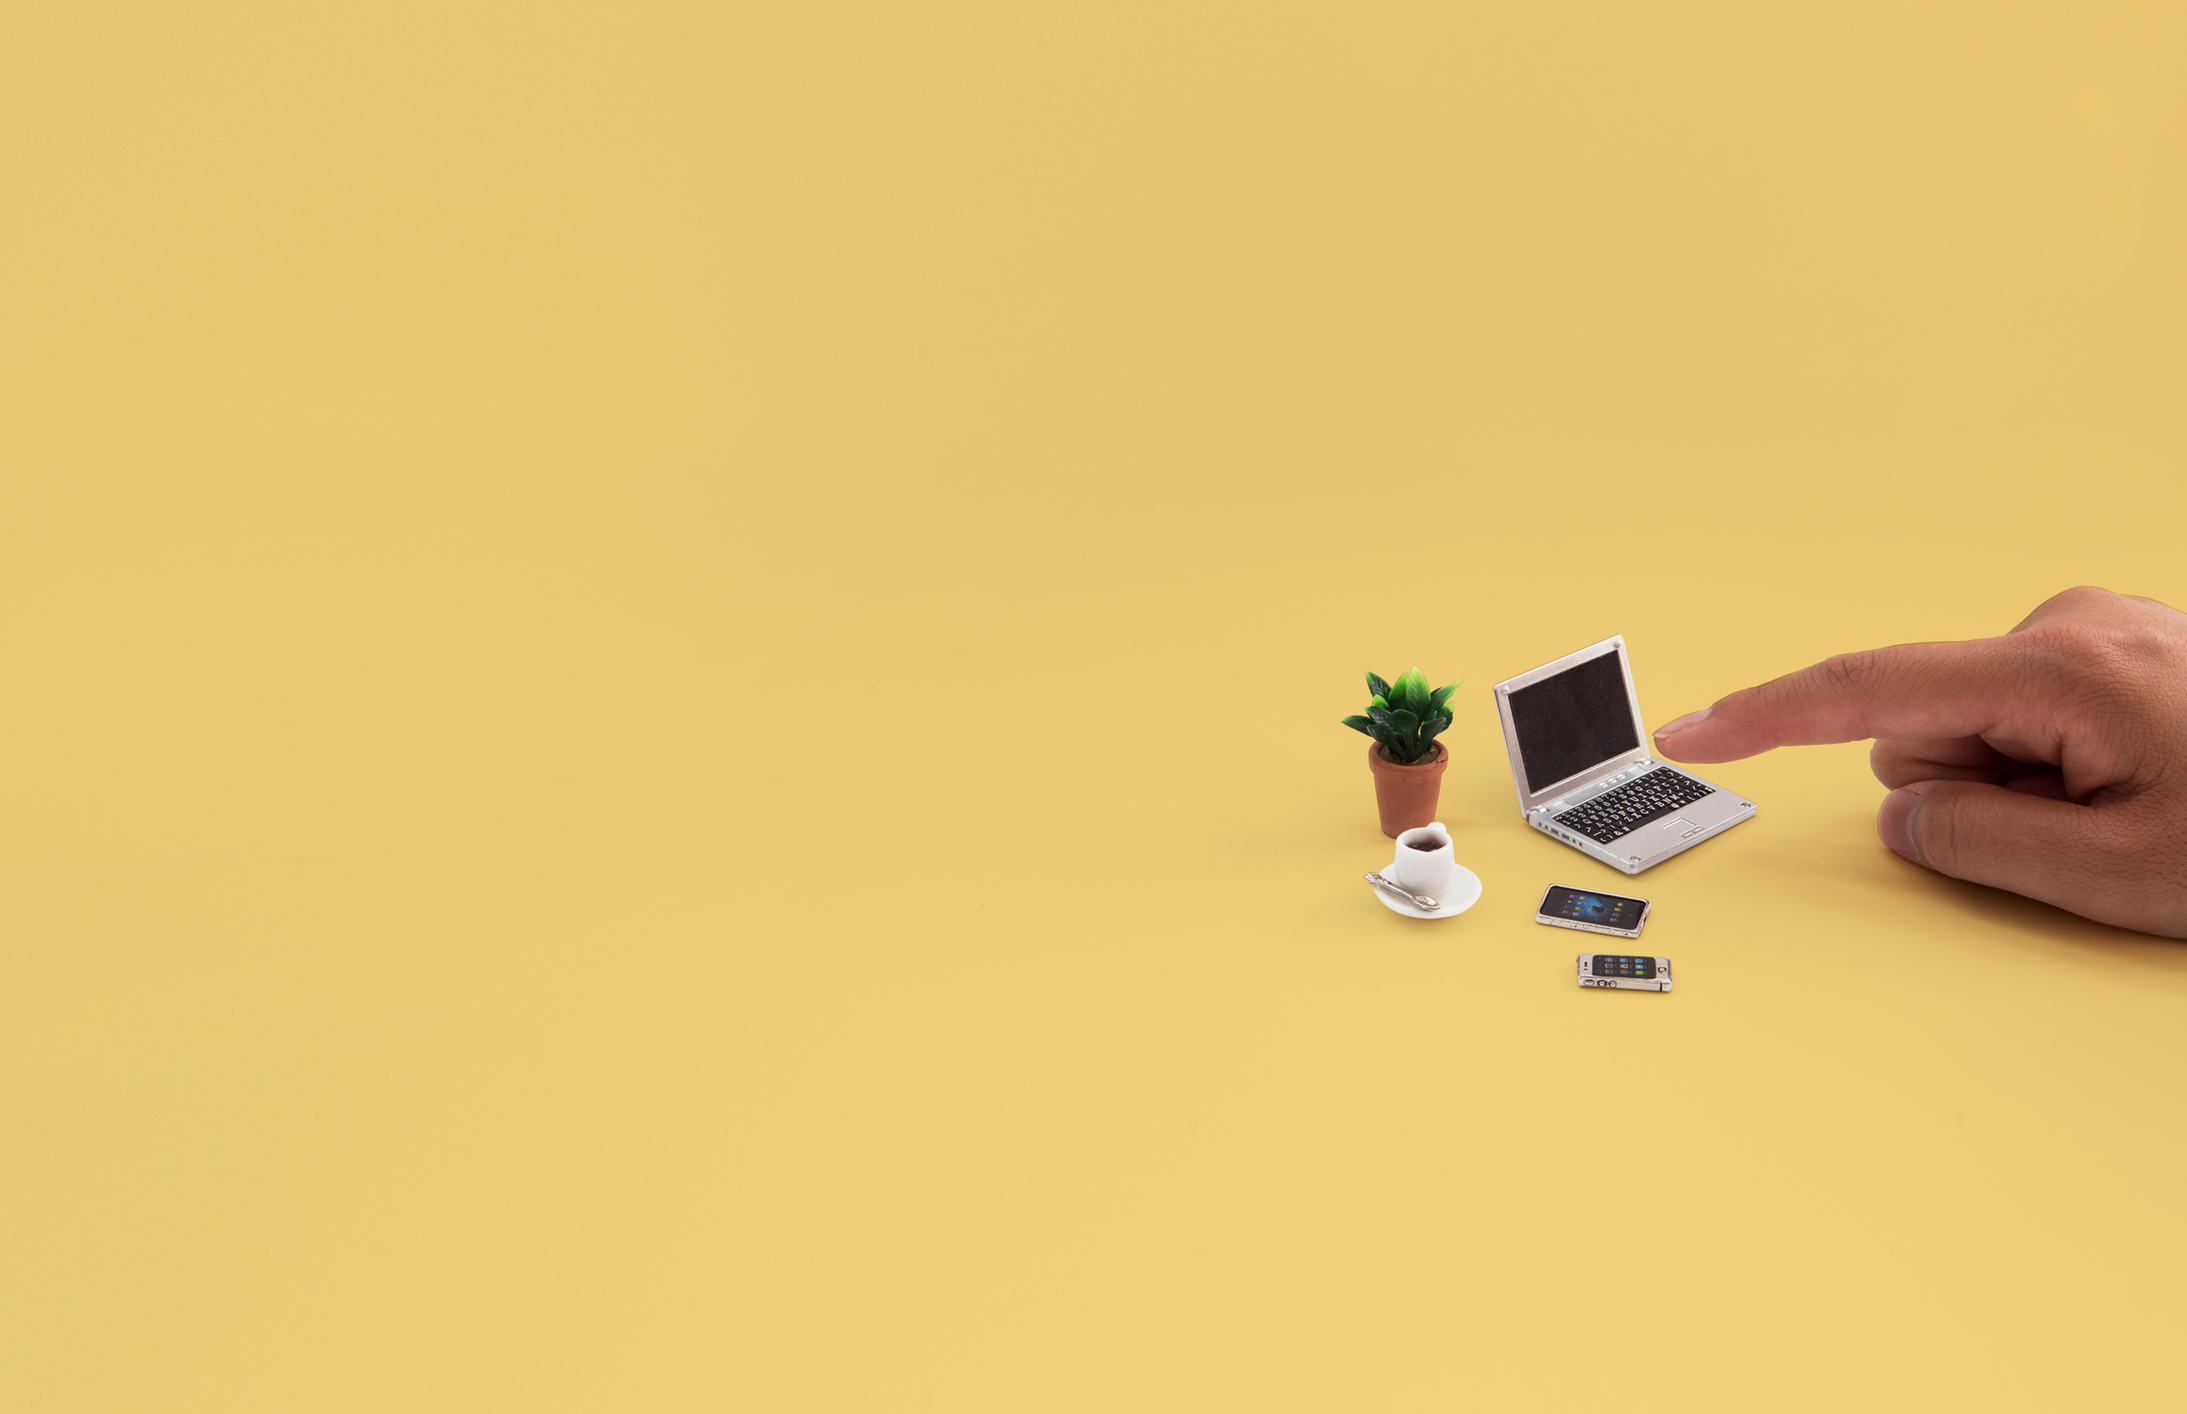
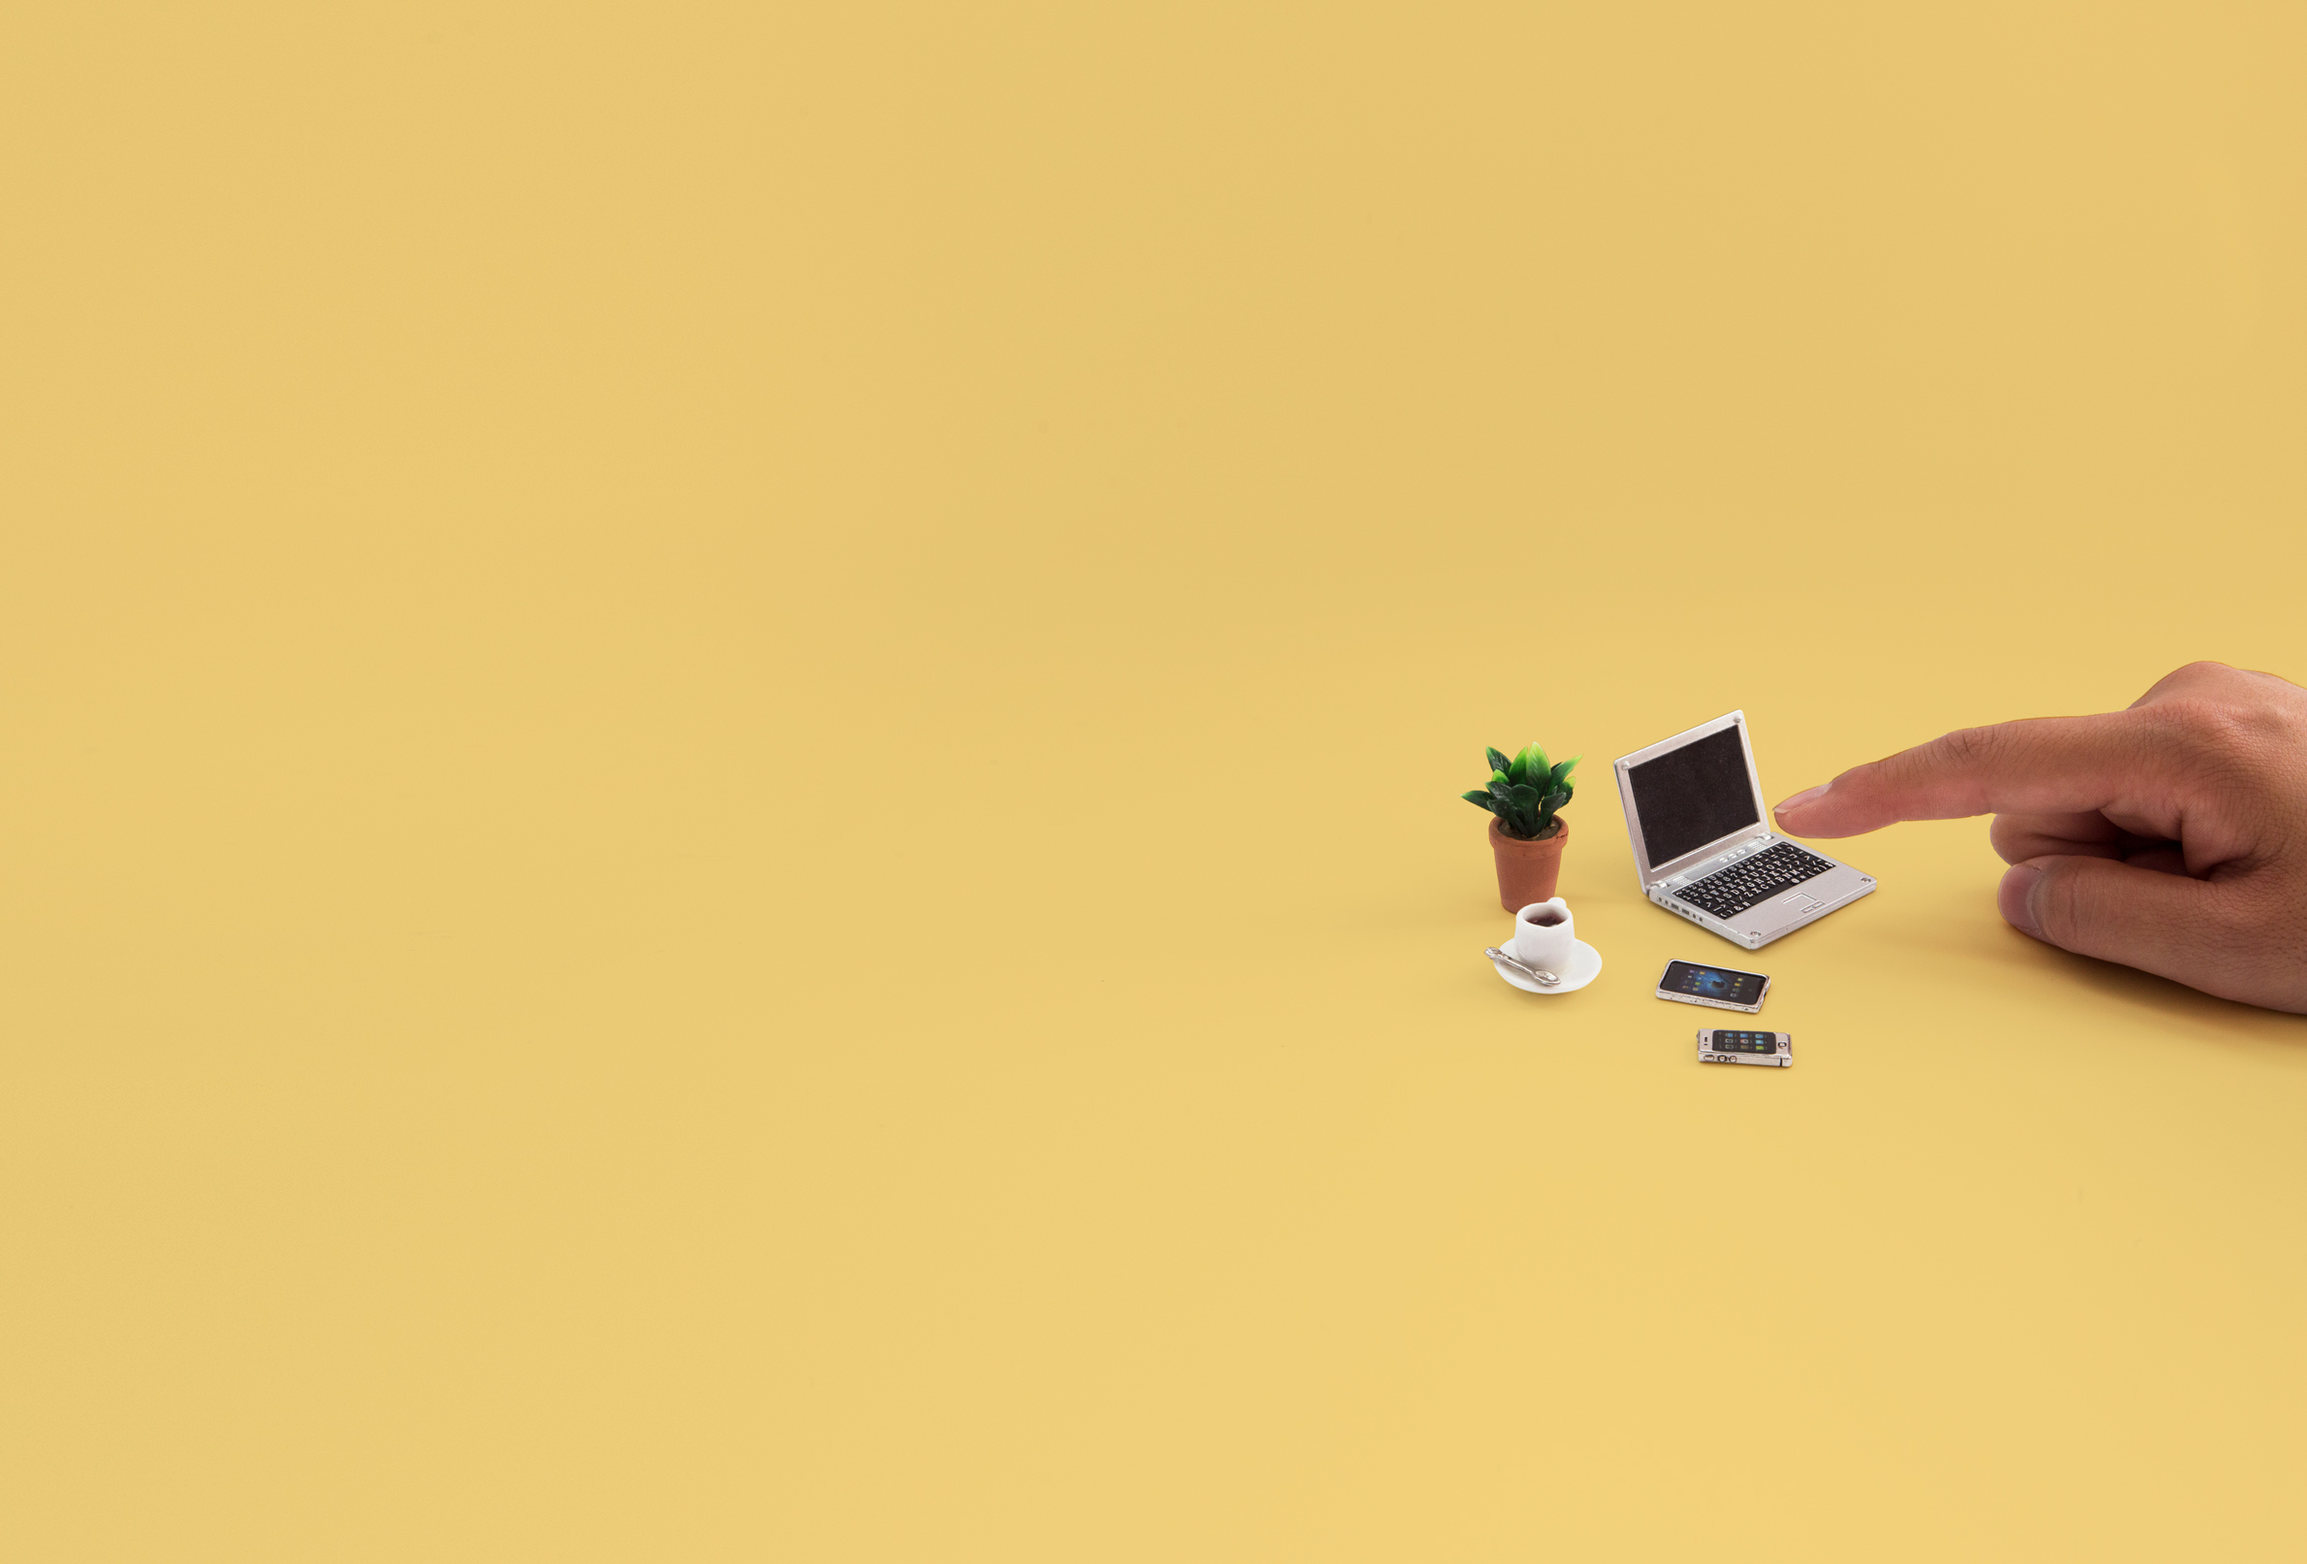
update

Changed region(s): [[0.6211, 0.4012, 1.0, 0.7099], [0.8385, 0.5247, 1.0, 0.7099]]

diff --git a/styles.css b/styles.css
@@ -5517,7 +5517,7 @@ html.w-mod-js [data-ix="opacity-100-on-hover"] {
 
   .hero-section.fixed-image-section.home {
     height: 70vh;
-    background-image: url("https://uploads-ssl.webflow.com/59c5c3e797139c000117aa12/59eceacaf4f8560001ca5755_cover.jpg"),
+    background-image: url("/Photos/Frame 1.png"),
       linear-gradient(#e8cf7d, #e8cf7d);
     background-position: 71%, 0 0;
     background-repeat: no-repeat, repeat;
